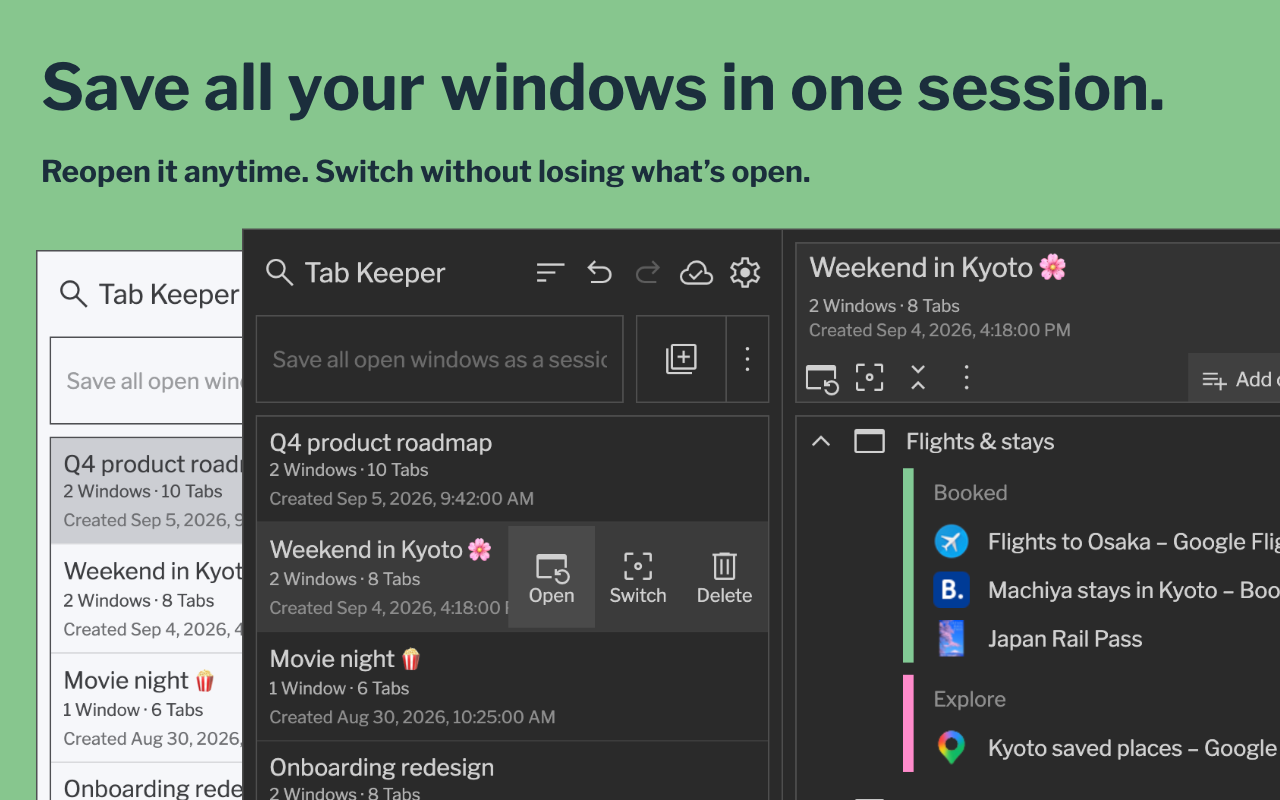
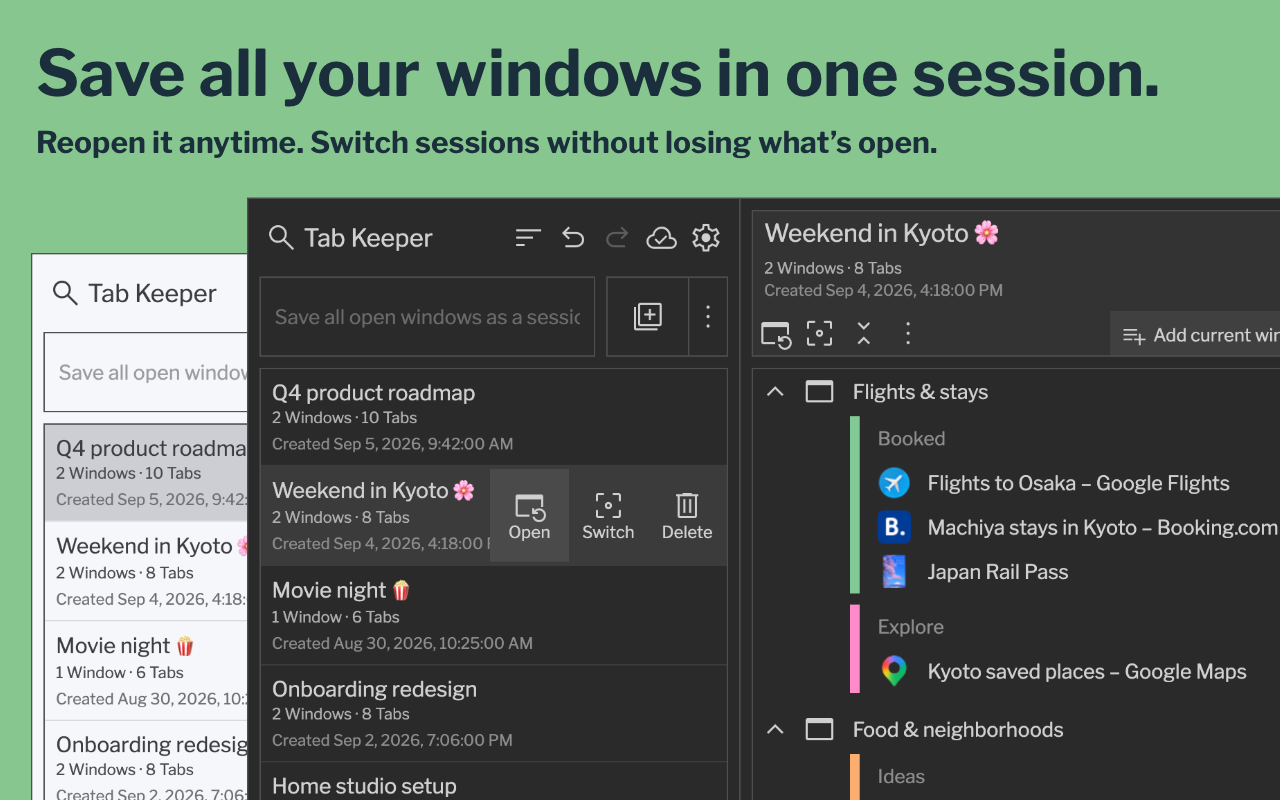
Lead the store images with sharing (#330)
The screenshots now run save, share, drag, search, sync. Sharing is the
headline 1.9.0 feature and takes slot 2; drag replaces the tab groups
shot, and the themes and languages shot is dropped. The marquee swaps
"Now with tab group support!", true since 1.6.0, for "Share sessions as
pages or PDFs.", and the README's alt text for it follows.

Changed region(s): [[0.0, 0.0625, 1.0, 1.0], [0.875, 0.4062, 1.0, 0.4375]]

diff --git a/README.md b/README.md
@@ -1,6 +1,6 @@
 # Tab Keeper - Chrome Tab Manager & Sync Tool
 
-<a href="https://chromewebstore.google.com/detail/tab-keeper-chrome-tab-man/gpibgniomobngodpnikhheifblbpbbah?ref=github" target="_blank"><img src="store-assets/marquee promo tile/tab-keeper-marquee-promo-tile.png" alt="Tab Keeper — save your tabs, pick up anytime, now with Chrome tab group support"></a>
+<a href="https://chromewebstore.google.com/detail/tab-keeper-chrome-tab-man/gpibgniomobngodpnikhheifblbpbbah?ref=github" target="_blank"><img src="store-assets/marquee promo tile/tab-keeper-marquee-promo-tile.png" alt="Tab Keeper — save your tabs, pick up anytime, share sessions as pages or PDFs"></a>
 
 Tab Keeper is a free session manager for Chrome. Save your open windows and tabs as sessions, restore them later—including tab group names and colors—share any session as a page or PDF, and sync across desktop Chrome without creating an account or providing an email address.
 
